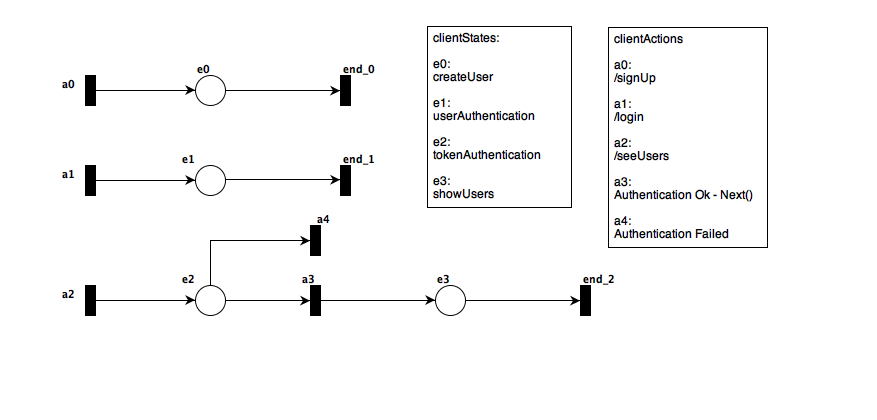
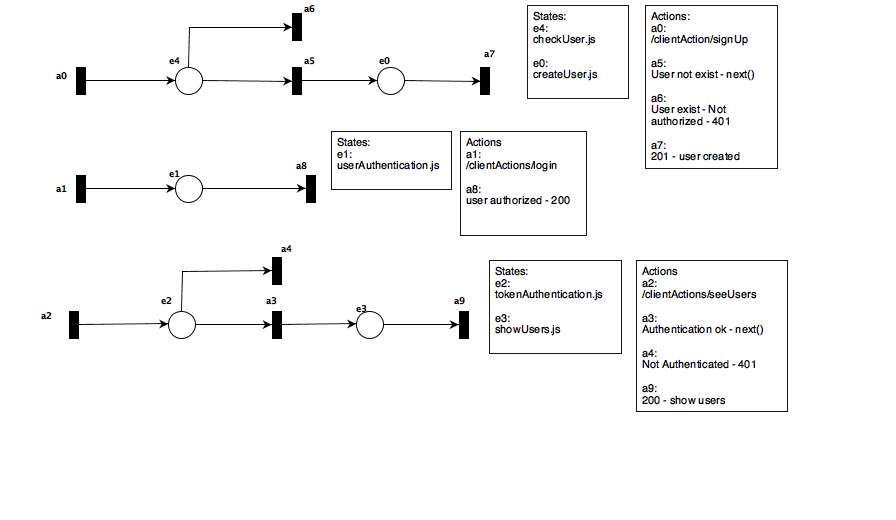
Implements schemas, device model, implement checkUser state and update the system modeling

diff --git a/petri/clientStates/userAuthentication.js b/petri/clientStates/userAuthentication.js
@@ -9,21 +9,29 @@ var userAuthentication = function(req, res){
 
     User.findOne({ username: req.body.username }, 'password', function(err, user){
         if(err){
-            res.json({ message: locales.en.mongoFindUserError });
+            res.status(500).json({ 
+                message: locales.en.mongoFindUserError 
+            });
             return;
         }
         if(!user){
-            res.json({ message: userDoesentExist });
+            res.status(404).json({
+                message: userDoesentExist 
+            });
             return;
         }
         else if(user){
             var passwordValidation = user.comparePassword(req.body.password);
             if(!passwordValidation){
-                res.json({ message: locales.en.invalidPassword });
+                res.status(401).json({
+                    message: locales.en.invalidPassword 
+                });
             }
             else{
                 var token = tokenCreation(user);
-                res.json({ message: locales.en.loginSucess ,token: token });
+                res.status(200).json({
+                    message: locales.en.loginSucess ,token: token 
+                });
                 return;
             }
         }

diff --git a/petri/clientStates/tokenAuthentication.js b/petri/clientStates/tokenAuthentication.js
@@ -2,6 +2,7 @@
 
 var jwt = require('jsonwebtoken');
 var secretKey = require('../../config.js').secretKey;
+var locales = require('../../locales/locales.js');
 
 var tokenAuthentication = function(req, res, next){
 
@@ -10,7 +11,9 @@ var tokenAuthentication = function(req, res, next){
         if(token){
             jwt.verify(token, secretKey, function(err, decoded){
                 if(err){
-                    res.json({ message: 'Invalid!' })
+                    res.status(401).json({
+                        message: locales.en.invalidToken 
+                    });
                 }
                 else{
                     next();
@@ -18,7 +21,9 @@ var tokenAuthentication = function(req, res, next){
             });
         }
         else{
-            res.json({ message: 'Unauthorized!' });
+            res.status(401).json({
+                message: locales.en.tokenNotAuthorized 
+            });
         }
     };
 

diff --git a/petri/clientStates/createUser.js b/petri/clientStates/createUser.js
@@ -1,4 +1,4 @@
-'use strict'
+'use strict';
 
 var User = require('../../app/models/user.js');
 var locales = require('../../locales/locales.js');
@@ -10,16 +10,22 @@ var createUser = function(req, res){
         username: req.body.username,
         password: req.body.password
     });
+
     user.save(function(err){
         if(err){
-            res.json({ message: locales.en.userNotCreated });
+            res.status(500).json({
+                message: locales.en.userNotCreated 
+            });
             return;
         }
         else{
-            res.json({ message: locales.en.userCreated });
+            res.status(201).json({ 
+                message: locales.en.userCreated 
+            });
             return;
         }
     });  
 };
+
 
 module.exports = createUser;

diff --git a/petri/clientStates/checkUser.js b/petri/clientStates/checkUser.js
@@ -1,0 +1,24 @@
+'use strict';
+
+var User = require('../../app/models/user.js');
+var locales = require('../../locales/locales.js');
+
+
+var checkUser = function(req, res, next){
+
+    var users = User;
+
+    users.findOne({ username: req.body.username }, function(err, user){
+        if(err){
+            console.log(err);
+        } else if(!user){
+            next();
+            } else{
+                res.status(401).json({
+                    message: locales.en.usernameUnauthorized
+                });
+            }
+    });
+};
+
+module.exports = checkUser;

diff --git a/app/models/user.js b/app/models/user.js
@@ -1,15 +1,8 @@
 'use strict';
 
-var mongoose = require('mongoose');
 var bcrypt = require('bcrypt-nodejs');
-
-var Schema = mongoose.Schema;
-
-var UserSchema = new Schema({
-    name: { type: String },
-    username: { type: String, required: true, index: { unique: true }},
-    password: { type: String, required: true, select: false }
-});
+var UserSchema = require('./schemas/user.js');
+var mongoose = require('mongoose');
 
 UserSchema.pre('save', function(next){
     var user = this;

diff --git a/petri/clientStates/showUsers.js b/petri/clientStates/showUsers.js
@@ -5,13 +5,16 @@ var locales = require('../../locales/locales.js');
 
 
 var showUsers = function(req, res){
+    
     User.find({}, function(err, users){
         if(err){
-            res.json({ message: locales.en.showUsersError });
+            res.status(500).json({
+                message: locales.en.showUsersError 
+            });
             return;
         }
         else{
-            res.json(users);
+            res.status(200).json(users);
         }
     });
 }

diff --git a/petri/clientActions/signUp/signUp.js b/petri/clientActions/signUp/signUp.js
@@ -1,10 +1,15 @@
 'use strict';
 
 var createUser = require('../../clientStates/createUser.js');
+var checkUser = require('../../clientStates/checkUser.js');
 
 var signUp = function(app, express){
     
-    var signUp = express.Router();
+    var signUp = express();
+
+    signUp.use('/', function(req, res, next){
+        checkUser(req, res, next);
+    });
 
     signUp.post('/', function(req, res){
         createUser(req, res);

diff --git a/app/models/schemas/device.js b/app/models/schemas/device.js
@@ -1,0 +1,14 @@
+'use strict';
+
+var mongoose = require('mongoose');
+
+var Schema = mongoose.Schema;
+
+var DeviceSchema = new Schema({
+    name: { type: String, required: true },
+    code: { type: String, required: true, index: { unique: true } },
+    version: { type: String, required: true },
+    type: { type: String, required: true },
+});
+
+module.exports = DeviceSchema;

diff --git a/app/models/schemas/user.js b/app/models/schemas/user.js
@@ -1,0 +1,13 @@
+'use strict';
+
+var mongoose = require('mongoose');
+
+var Schema = mongoose.Schema;
+
+var UserSchema = new Schema({
+    name: { type: String },
+    username: { type: String, required: true, index: { unique: true }},
+    password: { type: String, required: true, select: false }
+});
+
+module.exports = UserSchema;

diff --git a/app/models/device.js b/app/models/device.js
@@ -1,0 +1,5 @@
+'use strict';
+
+var mongoose = require('mongoose');
+var DeviceSchema = require('./schemas/device.js');
+
